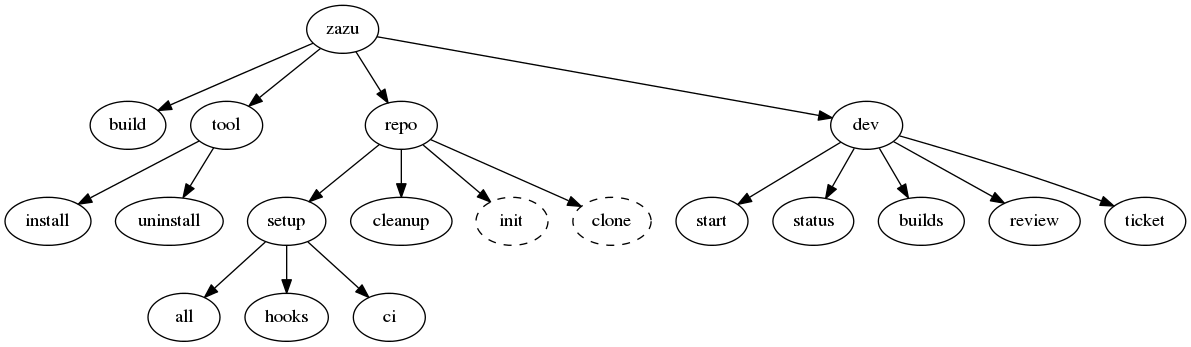
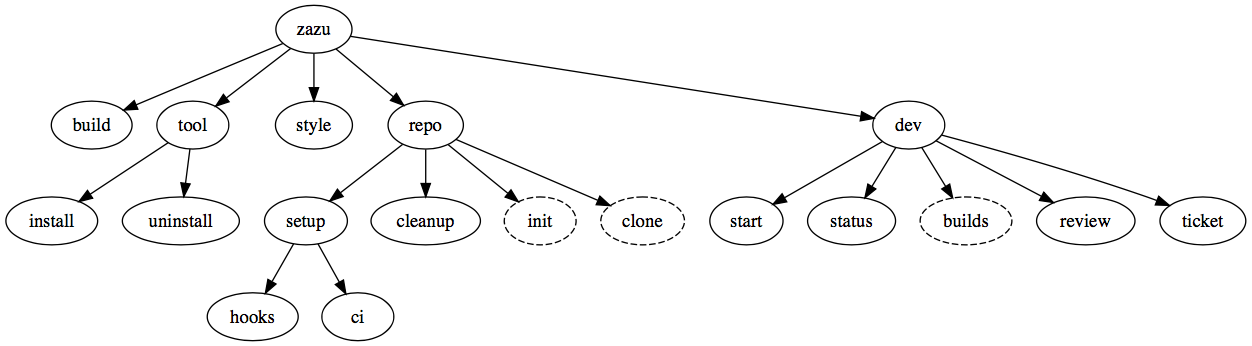
Feature/sti 473 style support (#3)
* add preliminary style support

(feature/style_support)

* add --dirty support to style command

(feature/style_support)

* use zazu to clean zazu style...inception style

(feature/style_support)

* add zazu support to zazu

(feature/style_support)

* remove excessive aggression in style config

(feature/style_support)

* require repo for style command

(feature/style_support)

* update readme, remove all setup command

(feature/STI-473_style_support)

* Spelling updates to readme

(feature/STI-473_style_support)

* add autocomplete instructions

(feature/STI-473_style_support)

diff --git a/zazu/core.py b/zazu/core.py
@@ -28,6 +28,8 @@ import socket
 import keyring
 import getpass
 import textwrap
+import glob2 as glob
+import multiprocessing
 
 
 class Config:
@@ -43,6 +45,14 @@ class Config:
             self._jira = jira_helper.make_jira()
         return self._jira
 
+    def pep8_config(self):
+        return {}
+
+    def astyle_config(self):
+        return {}
+
+    def project_config(self):
+        return load_project_file(os.path.join(self.repo_root, PROJECT_FILE_NAME))
 
 PROJECT_FILE_NAME = 'zazu.yaml'
 
@@ -384,14 +394,6 @@ def builds(ctx):
 
 @setup.command()
 @click.pass_context
-def all(ctx):
-    """Setup all services"""
-    ctx.forward(hooks)
-    ctx.forward(ci)
-
-
-@setup.command()
-@click.pass_context
 def hooks(ctx):
     """Setup default git hooks"""
     git_helper.install_git_hooks(ctx.obj.repo_root)
@@ -445,8 +447,11 @@ def cleanup(ctx, remote):
 
 def load_project_file(path):
     """Load a project yaml file"""
-    with open(path) as f:
-        return yaml.load(f)
+    try:
+        with open(path) as f:
+            return yaml.load(f)
+    except IOError:
+        raise click.ClickException('no {} file found in this repo'.format(PROJECT_FILE_NAME))
 
 
 @setup.command()
@@ -578,17 +583,18 @@ def cmake_build(repo_root, arch, type, goal, verbose, vars):
             echo = click.echo
         ret = cmake_helper.configure(repo_root, build_dir, arch, type, vars, echo=echo)
         if ret:
-            raise ZazuException("Error configuring with cmake")
+            raise ClickException("Error configuring with cmake")
         ret = cmake_helper.build(build_dir, type, goal, verbose)
         if ret:
-            raise ZazuException("Error building with cmake")
+            raise ClickException("Error building with cmake")
     return ret
 
 
 @cli.command()
 @click.pass_context
 @click.option('-a', '--arch', default='local', help='the desired architecture to build for')
-@click.option('-t', '--type', type=click.Choice(cmake_helper.build_types), help='defaults to what is specified in the zazu.yaml file, or release if unspecified there')
+@click.option('-t', '--type', type=click.Choice(cmake_helper.build_types),
+              help='defaults to what is specified in the {} file, or release if unspecified there'.format(PROJECT_FILE_NAME))
 @click.option('-v', '--verbose', is_flag=True, help='generates verbose output from the build')
 @click.argument('goal')
 def build(ctx, arch, type, verbose, goal):
@@ -596,7 +602,7 @@ def build(ctx, arch, type, verbose, goal):
      use distclean to clean whole build folder"""
     # Run the supplied build command if there is one, otherwise assume cmake
     # Parse file to find requirements then check that they exist, then build
-    project_config = load_project_file(os.path.join(ctx.obj.repo_root, PROJECT_FILE_NAME))
+    project_config = ctx.obj.project_config()
     component = ComponentConfiguration(project_config['components'][0])
     spec = component.get_spec(goal, arch, type)
     requirements = spec.build_requires().get('zazu', [])
@@ -617,3 +623,124 @@ def build(ctx, arch, type, verbose, goal):
                 click.echo("Error {} exited with code {}".format(str(s), ret))
                 break
     return ret
+
+
+def autopep8_file(file, config, check):
+    """checks a single file to see if it is within style guidelines and optionally fixes it"""
+    ret = []
+    args = ['autopep8']
+    args += config.get('options', [])
+
+    check_args = args + ['--diff', file]
+    fix_args = args + ['--in-place', file]
+
+    output = subprocess.check_output(check_args)
+    if len(output):
+        if not check:
+            subprocess.check_output(fix_args)
+        ret.append(file)
+    return ret
+
+
+def autopep8(files, config, check):
+    """Concurrently dispatches multiple workers to perform autopep8"""
+    ret = []
+    with concurrent.futures.ThreadPoolExecutor(max_workers=multiprocessing.cpu_count()) as executor:
+        futures = {executor.submit(autopep8_file, f, config, check): f for f in files}
+        for future in concurrent.futures.as_completed(futures):
+            ret += future.result()
+    return ret
+
+
+def astyle(files, config, check):
+    """Run astyle on a set of files"""
+    ret = []
+    if len(files):
+        args = ['astyle', '-v']
+        args += config.get('options', [])
+        if check:
+            args.append('--dry-run')
+        args += files
+        output = subprocess.check_output(args)
+        needle = 'Formatted  '
+        for l in output.split('\n'):
+            if l.startswith(needle):
+                ret.append(l[len(needle):])
+    return ret
+
+
+def recursive_glob(pattern):
+    """an os optimized recursive glob"""
+    if 'nt' == os.name:
+        return glob.glob(pattern)
+    else:
+        try:
+            # Expand a glob using sh and ls. This  won't fly on Windows, but it is MUCH faster ~100x than glob2
+            ret = subprocess.check_output(['sh -c \"ls -1 {} 2>/dev/null\"'.format(pattern)], shell=True).split('\n')
+            ret = [x for x in ret if x]
+        except subprocess.CalledProcessError:
+            ret = []
+        return ret
+
+
+def glob_with_excludes(pattern, exclude):
+    """globs and then excludes certain paths"""
+    files = recursive_glob(pattern)
+
+    for e in exclude:
+        files = [x for x in files if not x.startswith(e)]
+    return files
+
+
+default_astyle_paths = [os.path.join('**', '*.cpp'),
+                        os.path.join('**', '*.hpp'),
+                        os.path.join('**', '*.c'),
+                        os.path.join('**', '*.h')]
+default_py_paths = [os.path.join('**', '*.py')]
+default_exclude_paths = [os.path.join('dependency'),
+                         os.path.join('dependencies')]
+
+
+@cli.command()
+@click.pass_context
+@click.option('--check', is_flag=True, help='only check the repo for style violations, do not correct them (exit with the number of violations)')
+@click.option('--dirty', is_flag=True, help='only examine files that are staged for CI commit')
+def style(ctx, check, dirty):
+    """Style repo files or check that they are valid style"""
+    # options are specified with respect to the repo root
+    check_repo(ctx.obj)
+    os.chdir(ctx.obj.repo_root)
+    violations = []
+    try:
+        style_config = ctx.obj.project_config()['style']
+    except KeyError:
+        raise click.ClickException('no "style" settings found in {}'.format(PROJECT_FILE_NAME))
+    if dirty:
+        dirty_files = git_helper.get_touched_files(ctx.obj.repo)
+    exclude_paths = style_config.get('exclude', default_exclude_paths)
+    # astyle
+    astyle_config = style_config.get('astyle', None)
+    if astyle_config is not None:
+        for f in astyle_config.get('include', default_astyle_paths):
+            files = glob_with_excludes(f, exclude_paths)
+            if dirty:
+                files = set(files).intersection(dirty_files)
+            violations += astyle(files, astyle_config, check)
+
+    # autopep8
+    autopep8_config = style_config.get('autopep8', None)
+    if autopep8_config is not None:
+        for f in autopep8_config.get('include', default_py_paths):
+            files = glob_with_excludes(f, exclude_paths)
+            if dirty:
+                files = set(files).intersection(dirty_files)
+            violations += autopep8(files, autopep8_config, check)
+    if check:
+        for v in violations:
+            click.echo("Violation in: {}".format(v))
+        click.echo('{} violations detected'.format(len(violations)))
+        ctx.exit(len(violations))
+    else:
+        for v in violations:
+            click.echo("Formatted: {}".format(v))
+        click.echo('{} violations fixed'.format(len(violations)))

diff --git a/zazu/git_helper.py b/zazu/git_helper.py
@@ -29,6 +29,11 @@ def get_default_git_hooks():
     }
 
 
+def get_touched_files(repo):
+    """Gets list of files that are scheduled to be committed (Added, created, modified, or renamed)"""
+    return repo.git.diff('--cached', '--name-only', '--diff-filter=ACMR').split('\n')
+
+
 def check_git_hooks(repo_base):
     """Checks that the default git hooks are in place"""
     have_hooks = True

diff --git a/setup.py b/setup.py
@@ -37,10 +37,10 @@ setup(
                       'semantic_version==2.5.0',
                       'gcovr==3.2',
                       'teamcity-messages==1.19',
-                      'futures==3.0.5'],
+                      'futures==3.0.5',
+                      'glob2==0.4.1'],
     entry_points='''
         [console_scripts]
         zazu=zazu.core:cli
         '''
 )
-

diff --git a/zazu/tool_helper.py b/zazu/tool_helper.py
@@ -13,6 +13,7 @@ import shutil
 
 class ToolEnforcer:
     """Holds a checker fn, installer fn, and uninstaller fn"""
+
     def __init__(self, check, install, uninstall):
         self.check_fn = check
         self.install_fn = install

diff --git a/README.md b/README.md
@@ -18,6 +18,8 @@ Zazu is implemented in Python and is a [Click](http://click.pocoo.org/5/) based 
 ##Install
 `pip install --upgrade --trusted-host pypi.lily.technology --index-url http://pypi.lily.technology:8080/simple zazu`
 
+If you get an error that "trusted-host" is not a recognized argument you may need to upgrade pip itself: `pip install --upgrade pip`
+
 ##Command overview
 The following diagram shows the available subcommands of zazu.
 
@@ -27,9 +29,9 @@ digraph G {
   "zazu" -> "tool"
   "tool" -> "install"
   "tool" -> "uninstall"
+  "zazu" -> "style"
   "zazu" -> "repo"
   "repo" -> "setup"
-  "setup" -> "all"  
   "setup" -> "hooks"  
   "setup" -> "ci"
   "repo" -> "cleanup"
@@ -40,7 +42,8 @@ digraph G {
   "zazu" -> "dev"
   "dev" -> "start"
   "dev" -> "status"
-  "dev" -> "builds"
+  dev_builds [label=builds, style=dashed]
+  "dev" -> "dev_builds"
   "dev" -> "review"
   "dev" -> "ticket"
 }
@@ -52,9 +55,8 @@ Note: dashed lines are not yet implemented
 ##Repo management 
 - `zazu repo clone <name>` clones repo from github and installs GIT hooks (Unimplemented)
 - `zazu repo init <name>` initializes repo to default project structure (Unimplemented)
-- `zazu repo setup all` runs all of the setup steps below
-	- `zazu repo setup hooks` installs default GIT hooks to the repo
-	- `zazu repo setup ci` sets up CI builds based on the zazu.yaml file in the repo
+- `zazu repo setup hooks` installs default GIT hooks to the repo
+- `zazu repo setup ci` sets up CI builds based on the zazu.yaml file in the repo
 
 ###CI build configuration management
 Zazu can setup CI server builds (currently only TeamCity is supported) to build targets specified by a recipe file (the zazu.yaml file in the root of a repo).
@@ -69,11 +71,14 @@ Zazu can setup CI server builds (currently only TeamCity is supported) to build 
 - `zazu dev builds` launches web browser to the CI project page
 - `zazu dev review` launches web browser to create/view a pull request
 
+##Code Style Enforcement
+- `zazu style` fixes code style using astyle and autopep8
 
 ##Building
 Zazu uses the zazu.yaml file to build goals defined there
 
-- `zazu build --arch=x86_64-linux-gcc package`
+- `zazu build <goal>`
+- The target architecture is assumed to be 'local' but may be overridden using the --arch flag. e.g `zazu build --arch=arm32-linux-gnueabihf package` would build targeting 32 bit arm linux.
 
 ##Build tool instalation
 Zazu will automatically try to obtain required build tools needed for each target as specified in the zazu.yaml file. These may be installed/uninstalled manually as well:
@@ -85,7 +90,7 @@ These tools will be installed to the `~/.zazu/tools/` folder.
 
 
 ##zazu.yaml file
-The zazu.yaml file lives at the base of the repo and describes the CI goals and architechures to be run. In addition it describes the requirements for each goal.
+The zazu.yaml file lives at the base of the repo and describes the CI goals and architectures to be run. In addition it describes the requirements for each goal.
 	
 
 	components:
@@ -107,10 +112,23 @@ The zazu.yaml file lives at the base of the repo and describes the CI goals and 
 	                - gcc-linaro-arm-linux-gnueabihf==4.9
 	          - arch: x86_64-linux-gcc
 
-
+	style:
+	  exclude:
+	    - dependencies/ #list path prefixes here to exclude from style
+	    - build/
+	  astyle:
+	    options:
+	      - "--options=astyle.conf" # options passed to astyle
+	    include:
+	      - src/*.cpp # list of globs of files to style
+	      - include/*.h
+	      - test/*.cpp
+	  autopep8:
+	    options:
+	      - "--max-line-length=150" # options passed to autopep8
 
 ###Compiler tuples
-Architechures are defined as tupple in the folowing form:
+Architectures are defined as tupple in the folowing form:
 `<ISA>-<OS>-<ABI>`
 ####Examples
 - x86\_64-linux-gcc
@@ -121,3 +139,31 @@ Architechures are defined as tupple in the folowing form:
 - x86\_32-win-msvc_2015
 - arm32-linux-gnueabihf
 - arm32-none-eabi
+
+##Command autocompletion
+Note that autocompletion currently only works for commands and subcommands (not arguments)
+###BASH users
+Add the following to your `~/.bashrc` file:
+
+	_zazu_completion() {
+	    COMPREPLY=( $( env COMP_WORDS="${COMP_WORDS[*]}" \
+	                   COMP_CWORD=$COMP_CWORD \
+	                   _ZAZU_COMPLETE=complete $1 ) )
+	    return 0
+	}
+	
+	complete -F _zazu_completion -o default zazu;
+	
+###ZSH users
+Add the following to your `~/.zshrc` file
+	
+	autoload bashcompinit
+	bashcompinit	
+	_zazu_completion() {
+	    COMPREPLY=( $( env COMP_WORDS="${COMP_WORDS[*]}" \
+	                   COMP_CWORD=$COMP_CWORD \
+	                   _ZAZU_COMPLETE=complete $1 ) )
+	    return 0
+	}
+	
+	complete -F _zazu_completion -o default zazu;
